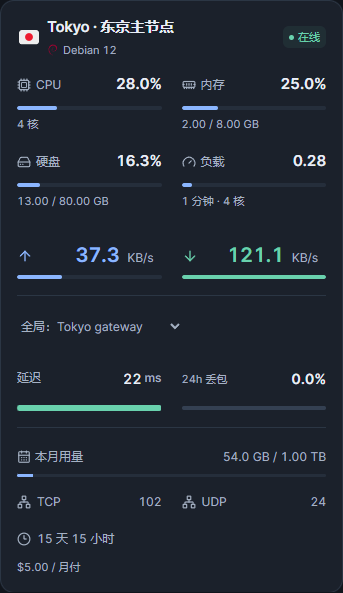
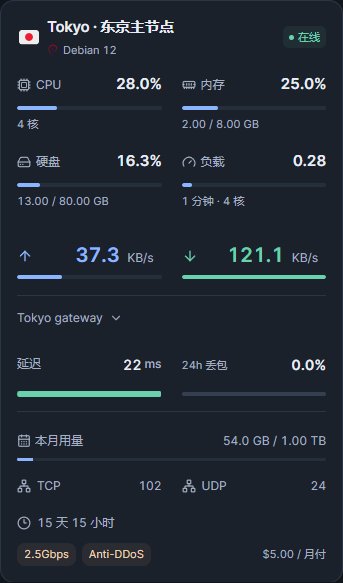
Refine card route spacing and mobile metadata for v0.0.12

diff --git a/src/components/PingStats.tsx b/src/components/PingStats.tsx
@@ -2,7 +2,7 @@ import {LossMetric} from './LossMetric'
 import {Select} from '@/components/ui/select'
 import {useNodeProbe} from '../lib/nodeProbes'
 import { tr, locale } from '../lib/i18n.ts'
-import { ChartNoAxesCombined, Unlink } from 'lucide-react'
+import { ChartNoAxesCombined, Unlink, ChevronDown } from 'lucide-react'
 import { usePing } from '@/lib/usePing'
 import { summarizePing, probeCatalog } from '@/lib/ping'
 function tone(n: number | null) { return n === null ? 'timeout' : n < 80 ? 'good' : n < 160 ? 'fair' : n < 220 ? 'slow' : 'bad' }
@@ -15,7 +15,7 @@ export function PingStats({ online = true, id, probe = "auto", onOpenRoutes, cou
  const shown=primary?[primary,...(stats || []).filter(s=>s.id!==primary.id)].slice(0,Math.max(1,Math.min(3,count))):[]
  const fallback=probe === "auto" ? stats?.[0] : stats?.find(s=>String(s.id)===probe)
  return <section ref={ref} className="ping-stats route-matrix" data-route-count={shown.length} aria-label={tr("24 小时延迟统计")}>
-  <div className="matrix-heading"><Select title={choice.selected==="auto"?tr("全局：{0}",fallback?.name || tr("无该线路记录")):primary?.name} className="route-select" aria-label={tr("节点探测线路")} value={choice.selected} onChange={e=>choice.select(e.target.value)}><option value="auto">{tr("全局：{0}",fallback?.name || tr("无该线路记录"))}</option>{catalog.map(s=><option key={s.id} value={s.id}>{s.name}</option>)}{choice.selected!=="auto"&&!catalog.some(s=>String(s.id)===choice.selected)&&<option value={choice.selected}>{tr("无该线路记录")} · {choice.selected}</option>}</Select>{choice.selected!=="auto" && <button onClick={()=>choice.select("auto")} aria-label={tr("恢复跟随全局线路")} title={tr("恢复跟随全局线路")}><Unlink size={14}/></button>}{catalog.length>1 && <button onClick={()=>onOpenRoutes()} aria-label={tr("查看全部 {0} 条线路",catalog.length)} title={tr("查看全部 {0} 条线路",catalog.length)}><ChartNoAxesCombined size={14}/><span>{catalog.length}</span></button>}</div>
+  <div className="matrix-heading"><div className="route-picker"><span className="route-picker-label" aria-hidden="true"><span>{primary?.name || tr("无该线路记录")}</span><ChevronDown size={14}/></span><Select title={choice.selected==="auto"?tr("全局：{0}",fallback?.name || tr("无该线路记录")):primary?.name} className="route-select" aria-label={tr("节点探测线路")} value={choice.selected} onChange={e=>choice.select(e.target.value)}><option value="auto">{tr("全局：{0}",fallback?.name || tr("无该线路记录"))}</option>{catalog.map(s=><option key={s.id} value={s.id}>{s.name}</option>)}{choice.selected!=="auto"&&!catalog.some(s=>String(s.id)===choice.selected)&&<option value={choice.selected}>{tr("无该线路记录")} · {choice.selected}</option>}</Select></div>{choice.selected!=="auto" && <button onClick={()=>choice.select("auto")} aria-label={tr("恢复跟随全局线路")} title={tr("恢复跟随全局线路")}><Unlink size={14}/></button>}{catalog.length>1 && <button onClick={()=>onOpenRoutes()} aria-label={tr("查看全部 {0} 条线路",catalog.length)} title={tr("查看全部 {0} 条线路",catalog.length)}><ChartNoAxesCombined size={14}/><span>{catalog.length}</span></button>}</div>
   {!online&&<p className="ping-stale">{tr("历史数据")}</p>}
   {snapshot?.failed&&<p className="ping-stale">{stats?tr("更新失败 · 上次数据"):tr("暂不可用 · 自动重试")}</p>}
   {!stats?<p className="ping-empty">{snapshot?.failed?tr("无法读取探测记录"):tr("正在读取探测记录…")}</p>:!stats.length?<p className="ping-empty">{tr("暂无探测记录")}</p>:!primary?<p className="ping-empty">{tr("无该线路记录")}</p>:<>

diff --git a/src/components/WorldMap.tsx b/src/components/WorldMap.tsx
@@ -1,6 +1,6 @@
 import {Flag} from './NodeIcons'
 import {tr,locale} from '../lib/i18n.ts'
-import {RotateCcw,Plus,Minus,Scan,Maximize,Minimize,Globe,Info} from 'lucide-react'
+import {RotateCcw,Plus,Minus,Scan,Maximize,Minimize,Globe} from 'lucide-react'
 import {useMemo,useState,useRef,useEffect,type ReactNode} from 'react'
 import {geoNaturalEarth1,geoPath,geoCentroid} from 'd3-geo'
 import {feature} from 'topojson-client'
@@ -57,8 +57,7 @@ export function WorldMap({nodes,region='all',onRegion,viewSwitch}:{nodes:Node[];
    {selected&&view.k>=1.8&&<div className="map-node-preview"><strong>{countryName(selected.code)}</strong><div>{selected.nodes.slice(0,6).map(n=><span key={n.id}><i className={n.online?'dot online':'dot'}/>{n.name}</span>)}</div>{selected.total>6&&<small>+{selected.total-6}</small>}</div>}
    <output className="map-scale">{Math.round(view.k*100)}%</output>
   </div>
-  <div className="explorer-footer"><div className="region-list"><button onClick={()=>onRegion('all')} title={tr("所有地区")} aria-label={tr("所有地区")} aria-pressed={region==='all'}><Globe size={16}/></button>{regions.map(r=><button key={r.code} data-region={r.code} aria-pressed={region===r.code} onClick={()=>onRegion(r.code)}>{r.code!==UNKNOWN_REGION&&<Flag code={r.code}/>}<span>{countryName(r.code)}</span><b>{r.total}</b></button>)}</div><button className="map-help" title={tr("地图说明")} aria-label={tr("地图说明")} onClick={()=>setHelp(!help)}><Info size={16}/></button></div>
+  <div className="explorer-footer"><div className="region-list"><button onClick={()=>onRegion('all')} title={tr("所有地区")} aria-label={tr("所有地区")} aria-pressed={region==='all'}><Globe size={16}/></button>{regions.map(r=><button key={r.code} data-region={r.code} aria-pressed={region===r.code} onClick={()=>onRegion(r.code)}>{r.code!==UNKNOWN_REGION&&<Flag code={r.code}/>}<span>{countryName(r.code)}</span><b>{r.total}</b></button>)}</div></div>
   {viewSwitch&&<div className="map-view-switch">{viewSwitch}</div>}
-  {help&&<p className="map-note">{tr("拖拽移动；Ctrl / ⌘ + 滚轮缩放，全屏内直接滚轮缩放。地图表示地区分组，不是机房精确位置。")}</p>}
- </section>
+ {help&&<p className="map-note">{tr("拖拽移动；Ctrl / ⌘ + 滚轮缩放，全屏内直接滚轮缩放。地图表示地区分组，不是机房精确位置。")}</p>}</section>
 }

diff --git a/tests/card-finish.spec.ts b/tests/card-finish.spec.ts
@@ -1,0 +1,24 @@
+import {test,expect} from '@playwright/test'
+import {nodes,metrics} from '../scripts/fixtures.mjs'
+test('mobile remarks share a row with price and native route menu keeps inheritance explicit',async({page})=>{
+ await page.route('**/api/nodes',r=>r.fulfill({json:{nodes:nodes().slice(0,4).map((n,i)=>({...n,price:i===3?0:i===2?123456.78:5,remark:i===0?'2.5Gbps;Anti-DDoS':i===2?'':'很长的备注用于检查右侧价格不被挤压;Backup;Production;More',metrics:{...n.metrics,tcp:12345678,udp:87654321,uptime:99999999}}))}}))
+ await page.route('**/api/nodes/*/metrics?*',r=>r.fulfill({json:{...metrics(),probes:{1:'A very long probe name · 电信线路 · 这是完整线路名称'}}}))
+ for(const language of ['zh','en']){
+ await page.addInitScript(language=>localStorage.setItem('monitor-next-language',language),language)
+ await page.goto('/');await page.locator('.route-matrix').first().scrollIntoViewIfNeeded();await page.locator('.latency-reading').first().waitFor()
+ for(const width of [320,390,430,768,1440]){
+  await page.setViewportSize({width,height:1000})
+  expect(await page.evaluate(()=>document.documentElement.scrollWidth<=innerWidth)).toBeTruthy()
+  for(const footer of await page.locator('.node-footer').all()){
+   expect(await footer.evaluate(el=>el.scrollWidth<=el.clientWidth)).toBeTruthy()
+   if(width<=720)expect(await footer.evaluate(el=>{const p=el.querySelector('.node-price')?.getBoundingClientRect(),n=el.querySelector('.node-remarks')?.getBoundingClientRect();return !p||!n||(n.right<=p.left&&Math.abs(n.top-p.top)<1)})).toBeTruthy()
+  }
+ }
+ const card=page.locator('.node-card').first(),select=card.locator('.route-select')
+ await expect(card.locator('.route-picker-label')).not.toContainText(/全局|Global/)
+ await expect(select.locator('option').first()).toHaveText(/全局|Global/)
+ await select.selectOption('1');await expect(select).toHaveValue('1')
+ await select.selectOption('auto');await expect(select).toHaveValue('auto')
+ await expect(page.locator('.map-help')).toHaveCount(0)
+ }
+})

diff --git a/src/styles/home.css b/src/styles/home.css
@@ -129,3 +129,22 @@
 .node-card:not([data-indicator=ring]) .loss-reading>small {display:inline;font-size:11px}
 .node-card .loss-stat[data-tone=good] {color:var(--foreground)}
 .node-card .latency-link small {font-size:12px;color:var(--muted-foreground)}
+
+/* Mobile metadata: remarks lead, price stays quietly aligned on the right. */
+@media(max-width:720px){
+ .node-card .node-footer {display:grid;grid-template-columns:minmax(0,1fr) fit-content(45%);align-items:start;gap:8px 12px}
+ .node-card .node-footer .node-remarks {grid-column:1;grid-row:1;justify-content:flex-start;min-width:0}
+ .node-card .node-footer .node-price {grid-column:2;grid-row:1;justify-self:end;max-width:100%;min-width:0;padding-block:3px;line-height:1.5;text-align:right;white-space:normal;overflow-wrap:anywhere;font-variant-numeric:tabular-nums}
+ .node-card .node-footer:not(:has(.node-price)) {grid-template-columns:minmax(0,1fr)}
+}
+
+/* Native route menu with a concise closed label; inheritance stays in the menu. */
+.node-card .route-picker {position:relative;flex:1;min-width:0;height:44px;border-radius:6px}
+.node-card .route-picker-label {display:flex;align-items:center;gap:6px;height:100%;font-size:12px;color:var(--muted-foreground);pointer-events:none}
+.node-card .route-picker-label>span {overflow:hidden;white-space:nowrap;text-overflow:ellipsis;min-width:0}
+.node-card .route-picker-label>svg {flex-shrink:0}
+.node-card .route-picker .route-select {position:absolute;inset:0;width:100%;height:100%;opacity:0;cursor:pointer;field-sizing:fixed}
+.node-card .route-picker:focus-within {outline:2px solid var(--tone);outline-offset:2px}
+.node-card .route-picker:hover {background:var(--muted)}
+.node-card .route-matrix {padding-top:0;padding-bottom:8px}
+.node-card .route-matrix .matrix-values {margin-top:2px;margin-bottom:6px}

diff --git a/ACCEPTANCE.md b/ACCEPTANCE.md
@@ -1,10 +1,10 @@
-# Monitor HEX 0.0.11 检查说明
+# Monitor HEX 0.0.12 检查说明
 
 当前源码的检查入口如下。测试使用本地演示数据，不代表已完成真实服务器部署验证。
 
 ## 最近验证
 
-2026-09-20：静态检查、业务测试、375 处字面量翻译检查及生产打包通过；Chrome 全量 46/46，Edge 关键路径 22/22。最终标题布局两浏览器各复核 9/9，英文标签修复后各复核 6/6。完整记录与截图见 REVIEW-v0.0.11.md。
+2026-09-20：v0.0.12 静态检查、业务测试、374 处字面量翻译检查与生产打包通过。Chrome 原有全量 46/46，加新增用例 1/1；Edge 相关检查 17/17，新增用例最终复核 1/1。详见 REVIEW-v0.0.12.md。
 
 ## 自动检查
 
@@ -22,7 +22,7 @@ npm run test:e2e
 
 ## 浏览器检查范围
 
-46 项用例按功能组织：
+47 项用例按功能组织：
 
 - `detail-resources.spec.ts`：资源图切换、刷新、窄屏、图形风格、空数据、失败重试、离线与采样间断。
 - `detail-routes.spec.ts`：线路继承、比较、详情布局、缺失线路和长文本。
@@ -41,10 +41,12 @@ npm run test:e2e
 
 - `detail-polish.spec.ts`：六尺寸、中英文、深浅色与四种指标样式的详情布局、触控区域、英文标签、设置分类与滚动关闭，共 96 种组合。
 
+- `card-finish.spec.ts`：长备注、大金额、无价格/无备注、原生线路选择与继承、地图图标移除。
+
 ## 打包与边界
 
 `npm run package` 生成 `theme.tar.gz` 和 SHA-256 校验文件。安装包根目录包含 `theme.json`、`dist/`、预览与许可证。
 
 历史范围依赖后端实际保留的数据。高负载事件是浏览器本地记录，仅覆盖页面监测期间，不等同于服务端持续告警。线上数据与后端兼容性仍需部署后核对。
 
-手机测试采用浏览器视口模拟，未进行实体手机或 iOS Safari 验证。完整本版验收记录见 `REVIEW-v0.0.11.md`。
+手机测试采用浏览器视口模拟，未进行实体手机或 iOS Safari 验证。完整本版验收记录见 `REVIEW-v0.0.12.md`。

diff --git a/REVIEW-v0.0.12.md b/REVIEW-v0.0.12.md
@@ -1,0 +1,30 @@
+# v0.0.12 卡片收尾验收
+
+用户已授权验收后直接发布。
+
+## 实施与取舍
+
+移除桌面地图右下角信息按钮；地图缩放、拖拽、全屏和地区筛选保留。手机备注居左、价格居右，长备注在左侧换行，大金额可在右侧折行。
+
+卡片线路标题只显示线路名称与箭头，保留原生选择器及 44px 点击区域；展开列表仍明确全局继承与具体线路，独立选择后的恢复按钮保留。减少标题与指标间距，多线路名称与数据对应规则不变。
+
+连接数合并试排未采用：320px 下，大连接数与长在线时长合计需约 367px，可用约 239px。保留原两行，不缩小字号或隐藏数据。
+
+## 验收
+
+- 静态检查、业务测试、374 处字面量翻译检查、生产构建通过。
+- Chrome 原有全量 46/46，加新增布局与原生线路继承用例 1/1，共 47 项通过。
+- Edge 相关用例 17/17 通过；新增用例最终再次 1/1 通过。
+- 320/390/430/768/1440px、中英文、深浅色、四种指标样式的既有回归通过。
+- 新增检查覆盖长备注、多标签、无备注、无价格、大金额、大连接数、长在线时长、长线路名、继承与独立选择。
+- 无横向溢出，手机备注和价格左右排列且顶端对齐；地图图标已移除。
+- 固定数据 390px 标准卡片由 599px 降至 583px（减少 16px）；基线为本轮开始时已确认价格右置后的本地构建。
+- 基线与新版截图各 22 张，位于本地 tests/artifacts/card-finish；合并排版试验截图为 connection-trial-320.png。原始图不提交仓库。
+
+[浅色卡片](screenshots/card-light.png) · [深色卡片](screenshots/card-dark.png)
+
+手机验收采用浏览器视口模拟，未进行实体手机、iOS Safari 或线上部署验收。
+
+## 发布
+
+版本 0.0.12，短名 hex，在线更新地址 https://github.com/8bitNull/Monitor-Hex。发布附件 theme.tar.gz 与 theme.tar.gz.sha256。

diff --git a/CHANGELOG.md b/CHANGELOG.md
@@ -1,5 +1,14 @@
 # Monitor HEX 当前版本
 
+## 0.0.12
+
+- 移除桌面地图右下角的信息图标。
+- 手机卡片采用左侧备注、右侧价格的布局，适配长备注与大金额。
+- 线路标题默认只显示名称和箭头，原生选择列表继续明确全局继承选项。
+- 减少延迟区域留白，保留 44px 操作区域；标准手机卡片降低 16px。
+- 连接数与在线时长合并试排未采用，保留两行以保障窄屏可读性。
+- Chrome 46 项回归与 1 项新增用例通过；Edge 17 项相关用例通过。
+
 ## 0.0.11
 
 - 精修详情页标题、状态、资源数值、网速单位与辅助资料层级。
